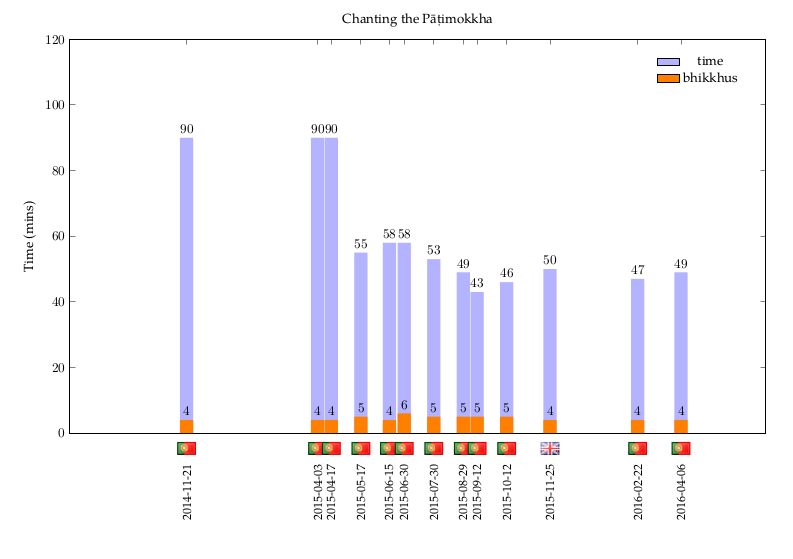
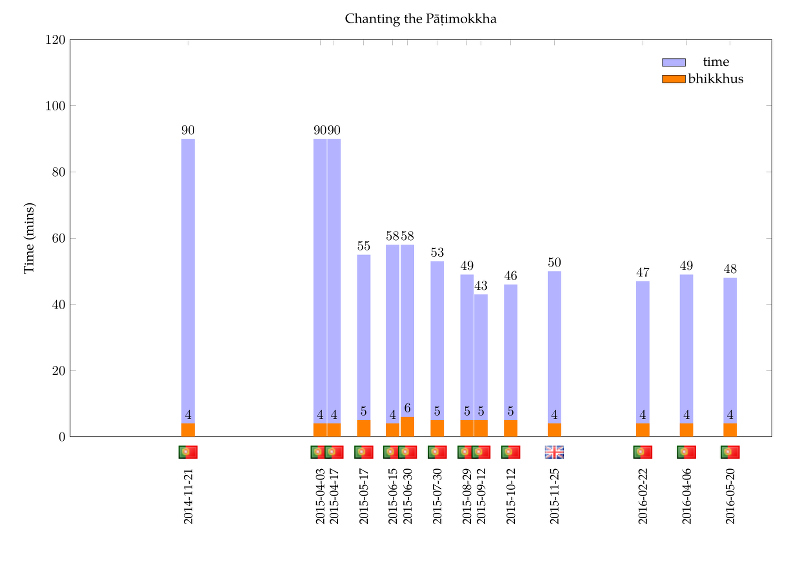
48 mins, 4 bhikkhus

diff --git a/src/patimokkha-chanting-chart.tex b/src/patimokkha-chanting-chart.tex
@@ -97,6 +97,7 @@
   \node [anchor=south, yshift=-20pt] at (axis cs:2015-11-25,0) {\includegraphics[width=5mm]{gb}};
   \node [anchor=south, yshift=-20pt] at (axis cs:2016-02-22,0) {\includegraphics[width=5mm]{pt}};
   \node [anchor=south, yshift=-20pt] at (axis cs:2016-04-06,0) {\includegraphics[width=5mm]{pt}};
+  \node [anchor=south, yshift=-20pt] at (axis cs:2016-05-20,0) {\includegraphics[width=5mm]{pt}};
 
 \end{axis}
 \end{tikzpicture}
